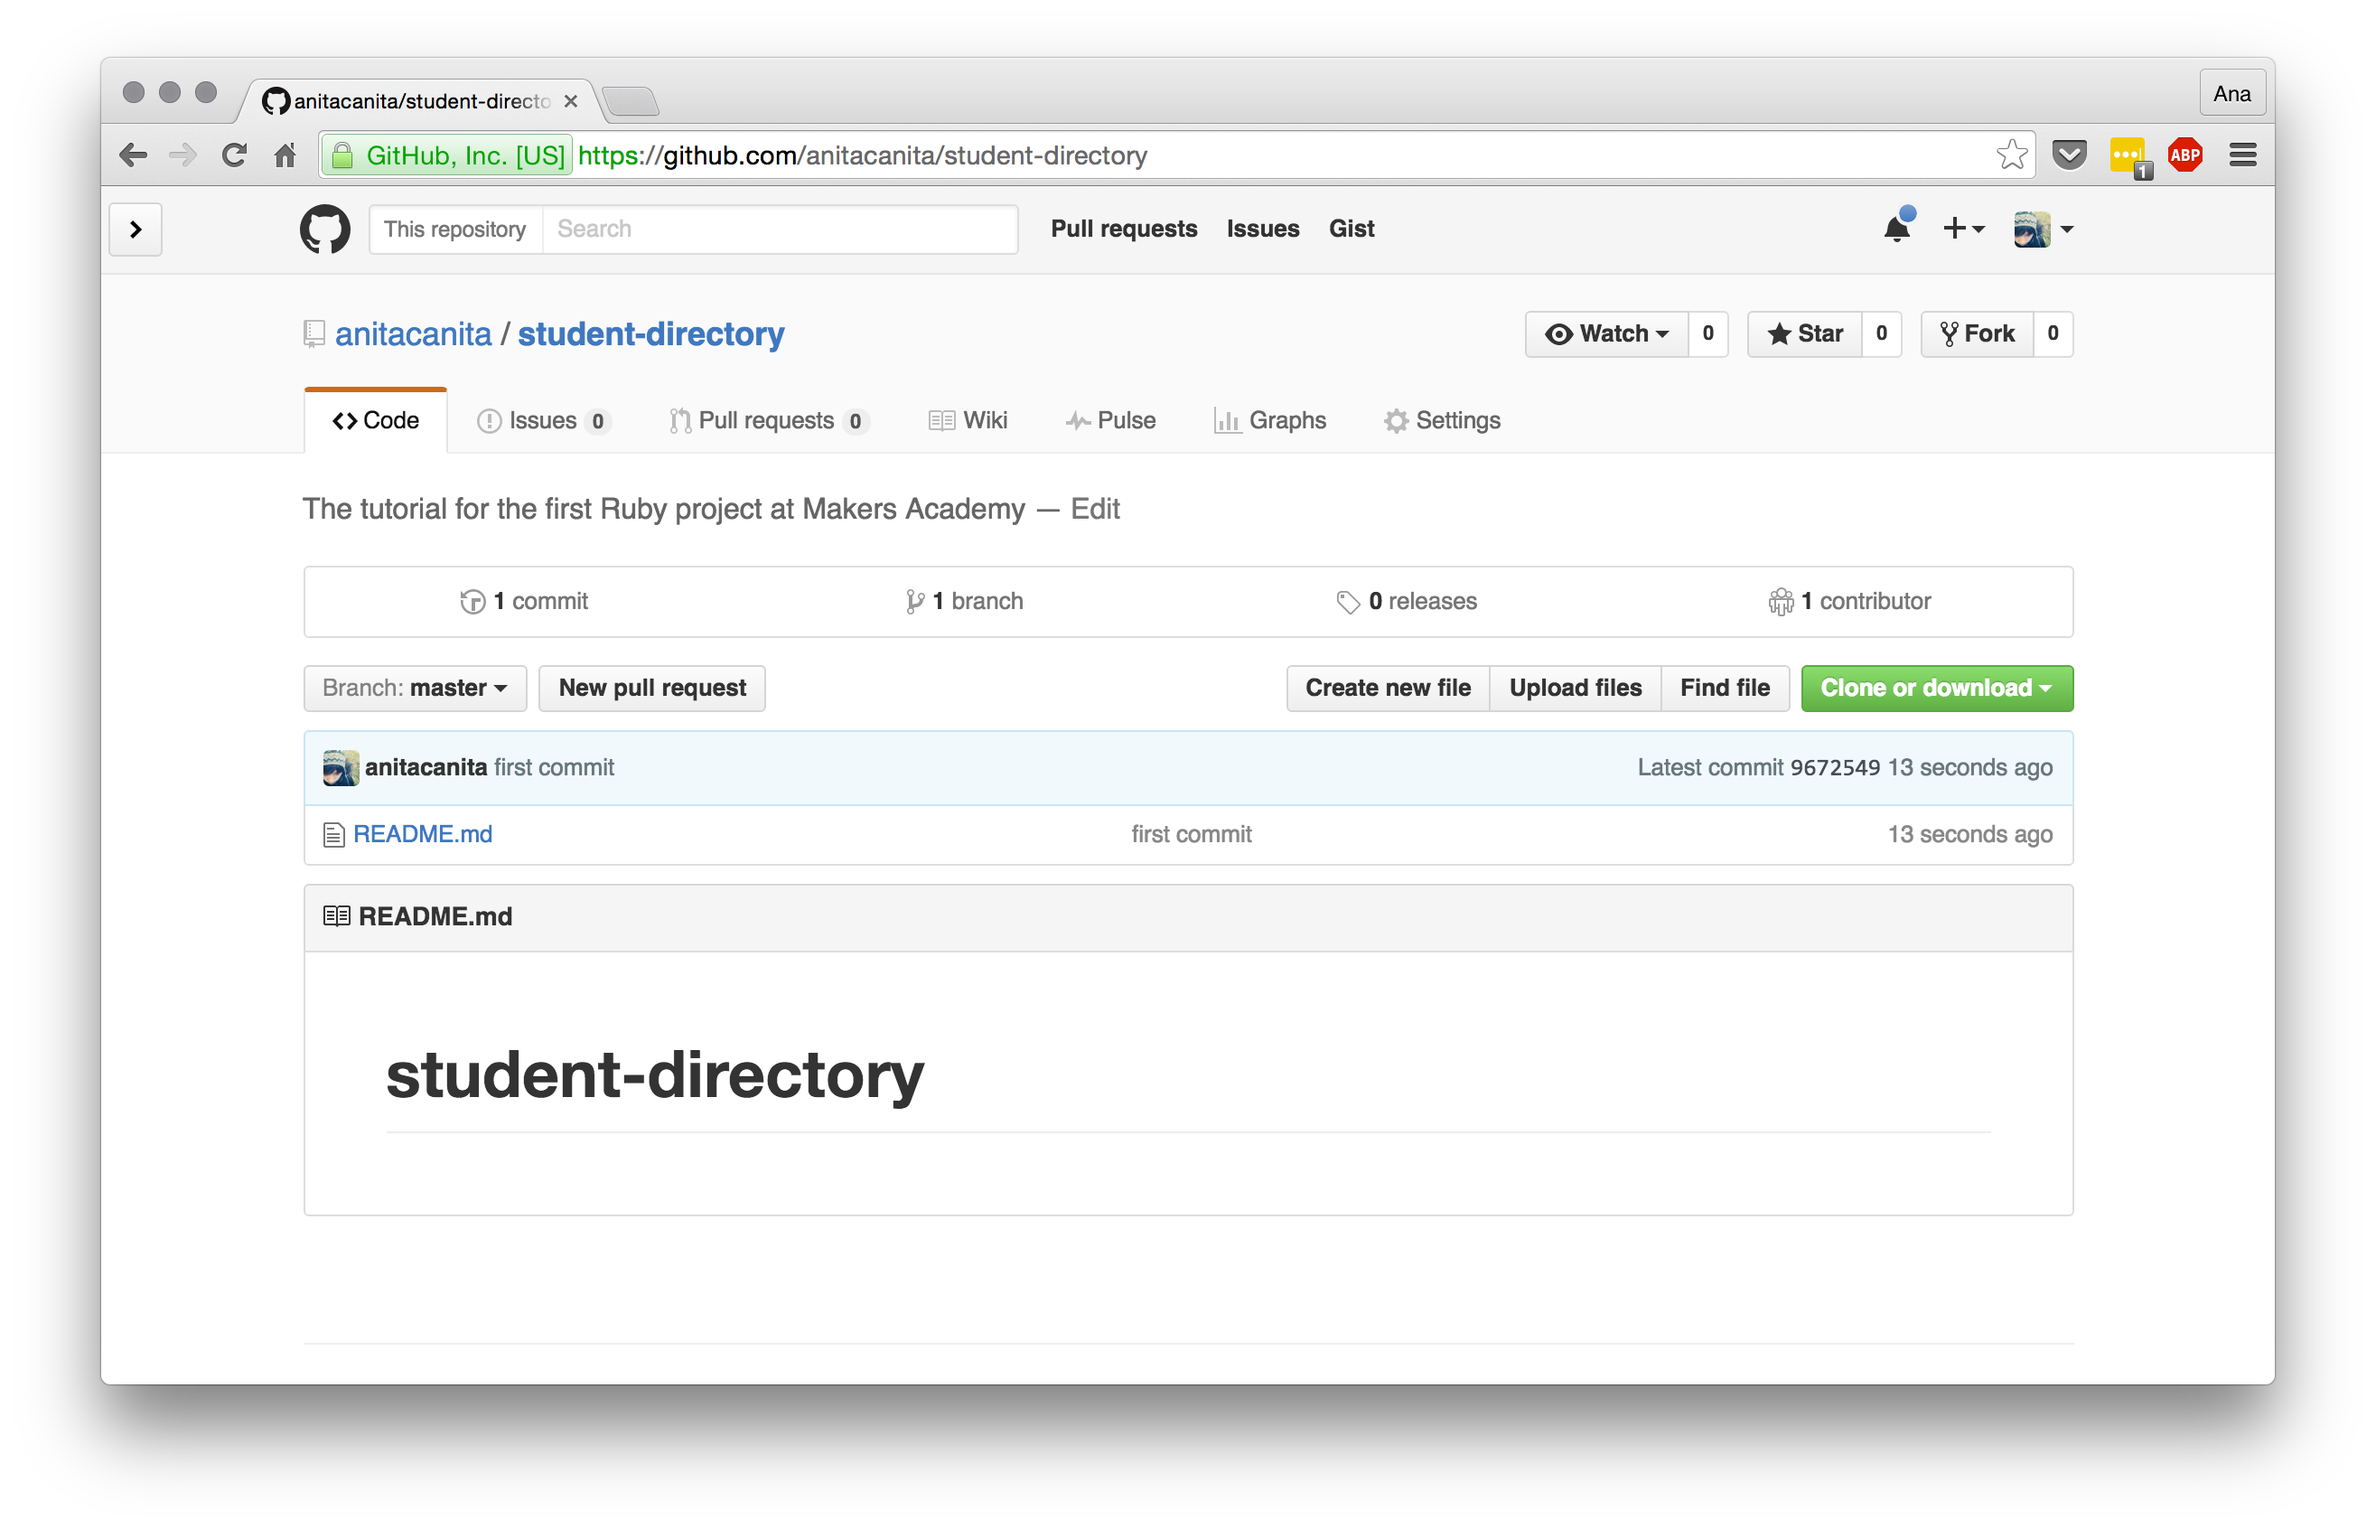
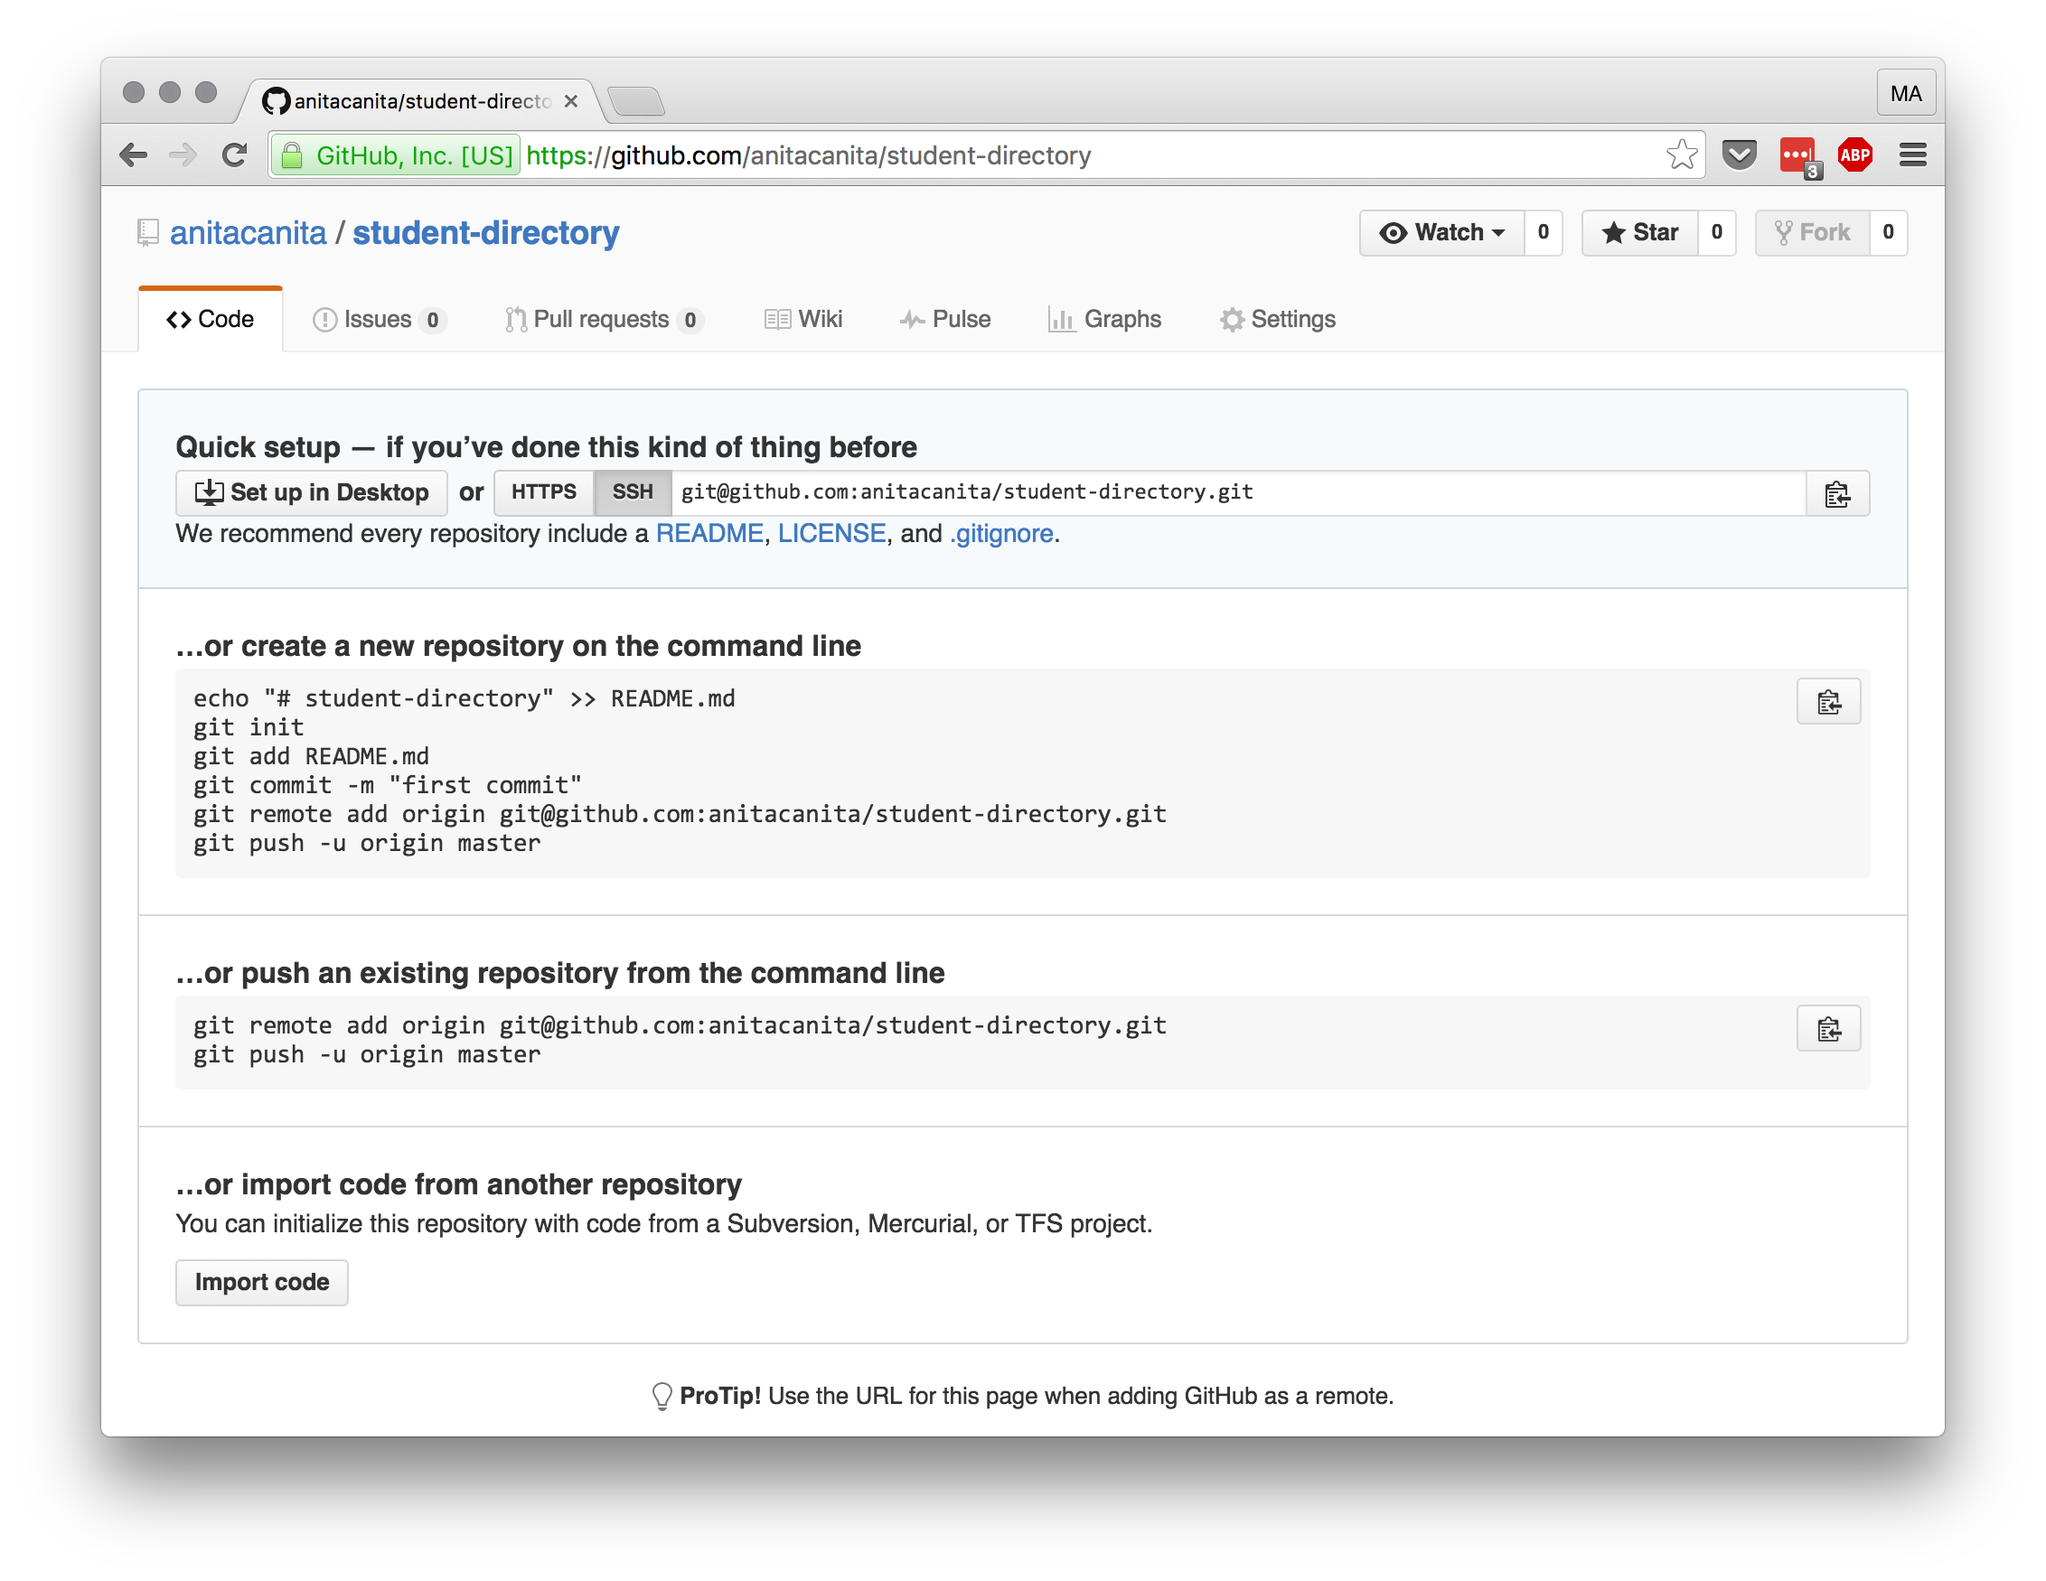
Fixes wrong image

diff --git a/01_setting_up_environment.md b/01_setting_up_environment.md
@@ -14,11 +14,11 @@ We always begin a new project (unless it's a throwaway code that will not live u
 
 ![new repo](./images/new_github_repo.png)
 
-Make it public, name it "student-directory" (it's usually a good idea to use the same name for Github repos and local folders) but don't initialise it with a README – we'll do it manually. This is what your repo will look like right after it's created.
+Make it public, name it "student-directory" (it's usually a good idea to use the same name for Github repos and local folders) but don't initialise it with a README – we'll do it manually.
 
 ![new repo created](./images/new_github_repo_created.png)
 
-Let's now initialise the repo with a README file and create a local remote ( :pill: [Version Control with Git](https://github.com/makersacademy/pre_course/blob/master/pills/git.md)). Github gives you steps required to do it:
+Let's now add a README file and create a local remote ( :pill: [Version Control with Git](https://github.com/makersacademy/pre_course/blob/master/pills/git.md)). Github gives you steps required to do it:
 
 ````
 echo "# student-directory" >> README.md
